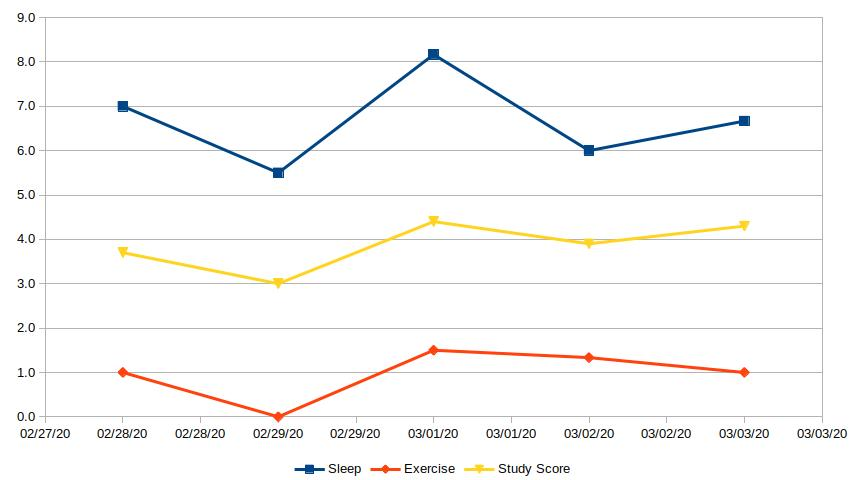
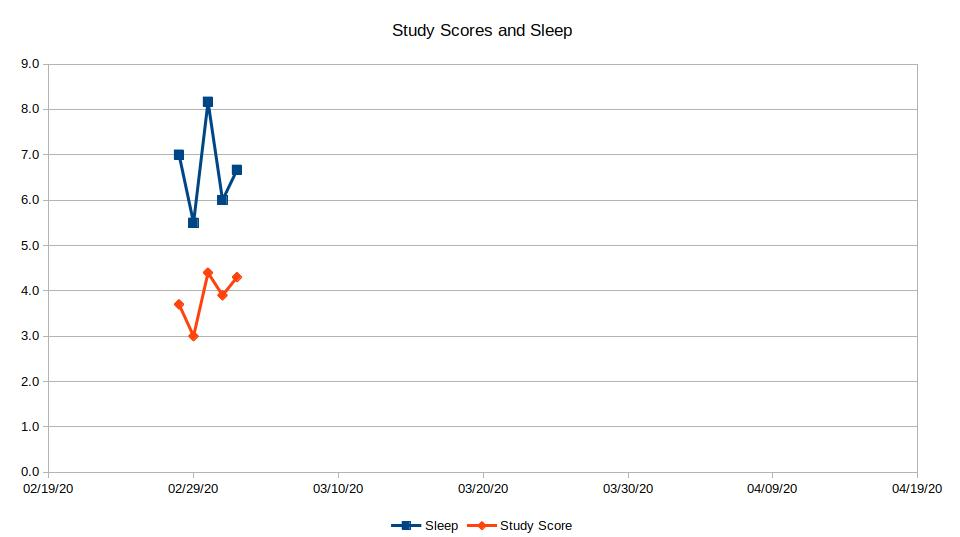
phase1

diff --git a/Phase1_Planning/README.md b/Phase1_Planning/README.md
@@ -13,8 +13,11 @@
 ## Identify Varibles:
 > I would like to track my real study time from 14:00 to 17:00 along with daily sleep and exercise
 ## Visualization Sample:
-> Visulization Samples
+> Visulization Sample: Study and Sleep
 > ![Visulization Samples](sample1.jpg)
-> Visulization Samples
+> Visulization Sample: Study and Exercise
 > ![Visulization Samples](sample2.jpg) 
+> Visulization Sample: Study, Sleep and Exercise
+> ![Visulization Samples](sample3.jpg)
+
 
